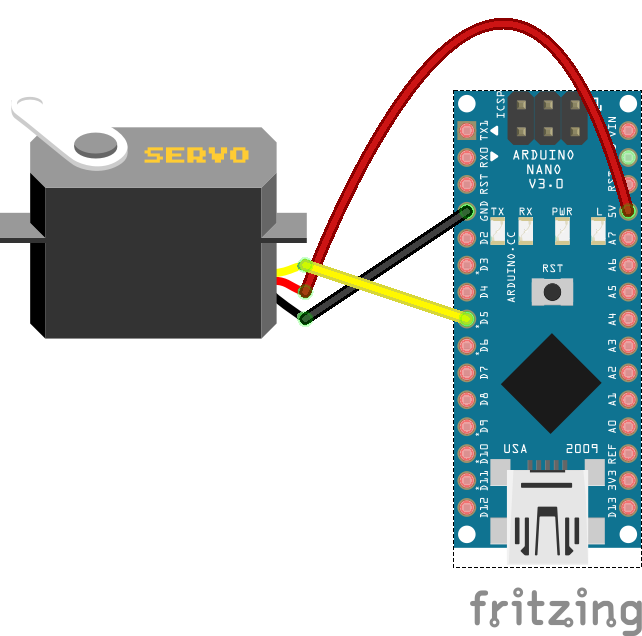
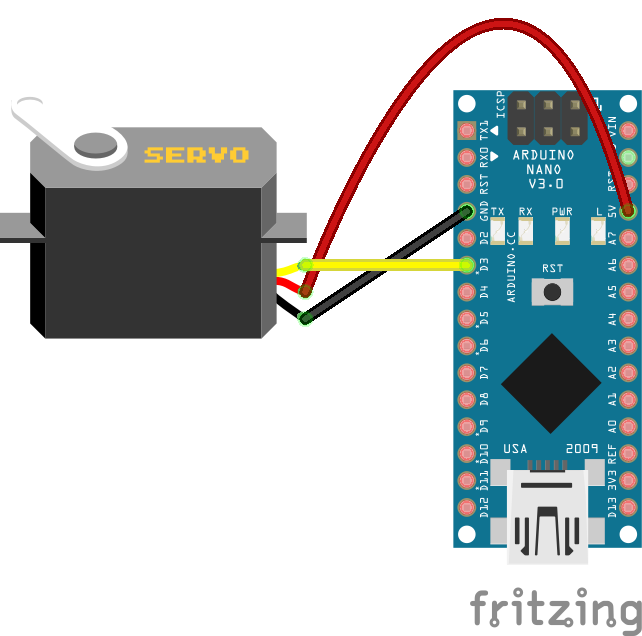
Servo details and pinout

Changed region(s): [[0.4673, 0.3884, 0.7477, 0.5377], [0.9969, 0.1195, 1.0, 0.8962]]

diff --git a/exercises/servo.md b/exercises/servo.md
@@ -26,7 +26,7 @@ instead.
 
 ![Servo Circuit](./servo_bb.png)
 
-Make sure the Servo is connected to pin 5.
+Make sure the Servo is connected to pin 3.
 
 ## Build the code in Robotnik
 
@@ -67,7 +67,7 @@ var rl = readline.createInterface({
 });
 
 five.Board().on("ready", function() {
-  var servo = new five.Servo(5);
+  var servo = new five.Servo(3);
 
   rl.setPrompt("SERVO TEST (0-180)> ");
   rl.prompt();
